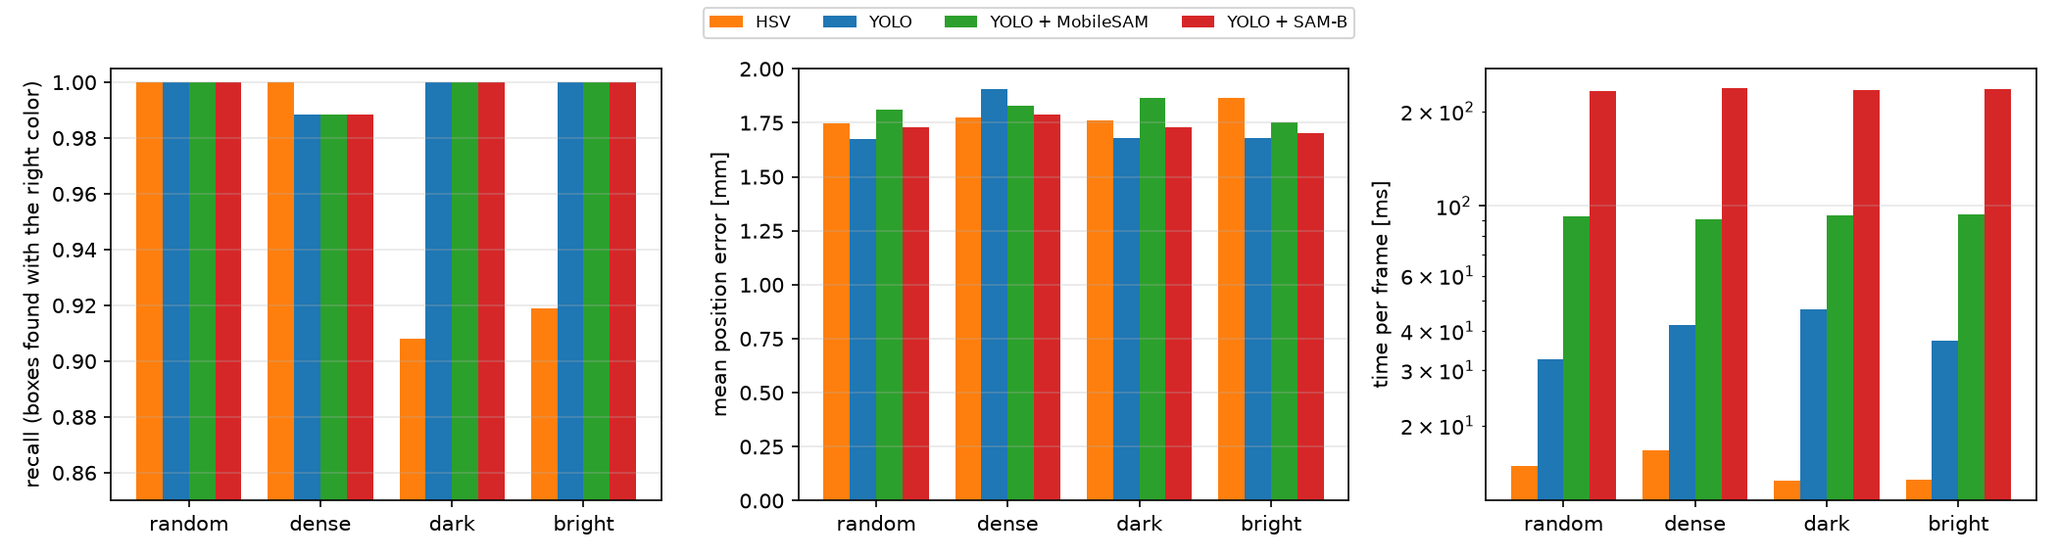
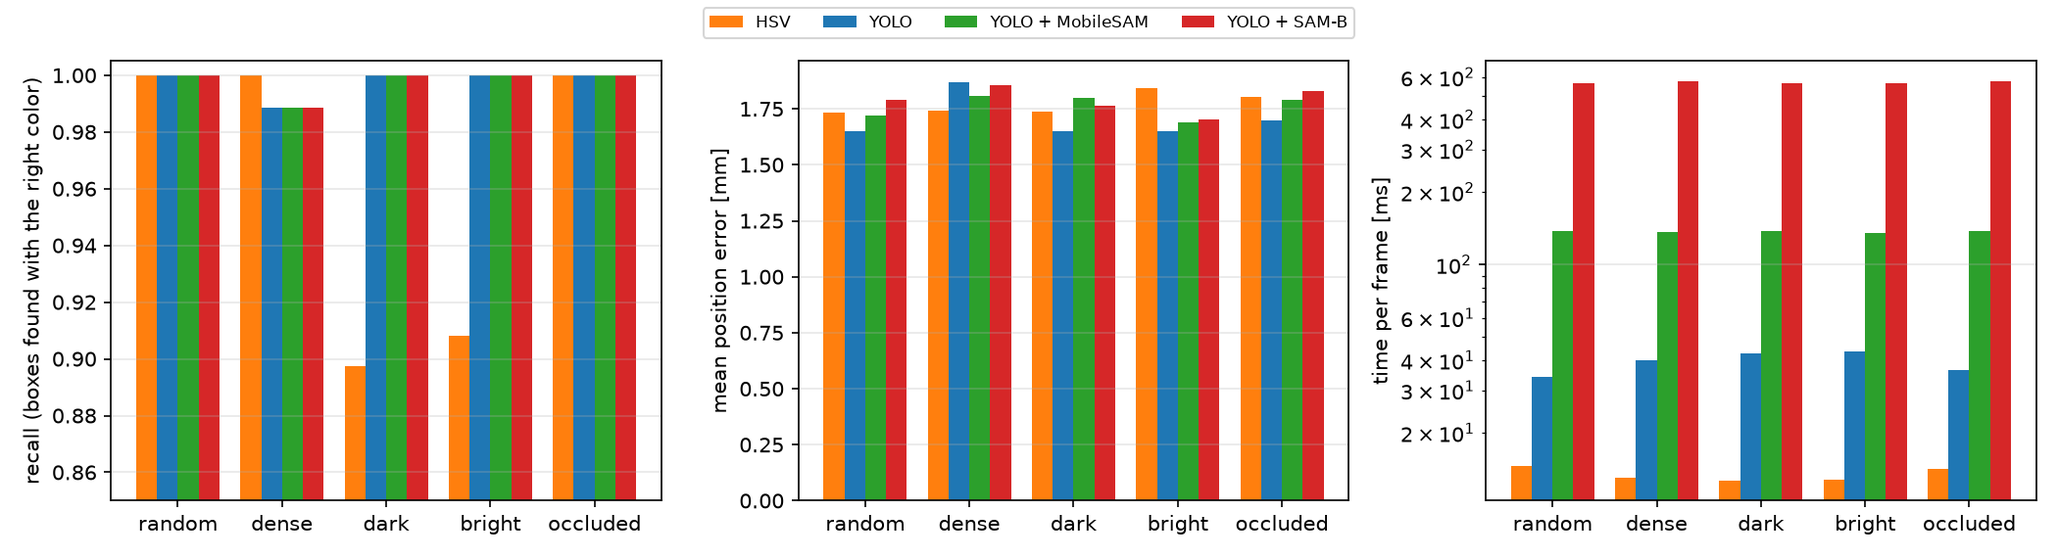
Perception benchmark with occlusion on the new layout (#110) (#161)

diff --git a/src/conveyor_sort/perception/benchmark.py b/src/conveyor_sort/perception/benchmark.py
@@ -4,14 +4,17 @@ from dataclasses import replace
 from typing import Callable
 
 import numpy as np
+import robotic as ry
 
 from conveyor_sort.interfaces import Detection
 from conveyor_sort.perception.camera import Camera, Observation
 from conveyor_sort.perception.dataset import randomize_scene
-from conveyor_sort.sim.conveyor import ConveyorConfig
+from conveyor_sort.sim.conveyor import BOX_SIZE, ConveyorConfig
+from conveyor_sort.sim.scene import ROBOT_PREFIX
 from conveyor_sort.sim.world import World
 
 MIN_VISIBLE_PIXELS = 600      # a box hidden by an arm beyond this (full box: about 900 px) need not be found
+PARTLY_HIDDEN = 300           # ... but between this and MIN_VISIBLE_PIXELS it counts for the partly-hidden recall
 MATCH_DISTANCE = 0.03         # a detection this close to a box centre is that box [m]
 TOUCH_GAP = 0.06              # centre distance of the touching boxes in the "dense" arrangement [m]: one box width
 
@@ -20,6 +23,7 @@ def make_scenes(n: int, seed: int, arrangement: str = "random", brightness: floa
     """`n` random belt scenes with the arms partly over the belt, each with its own world.
 
     "dense": every second box is moved next to its predecessor, touching it, along or across the belt.
+    "occluded": one arm's gripper hovers 5 to 15 cm above a random box, up to 5 cm beside its centre (#110).
     `brightness` scales the image (the renderer has no light control; this imitates darker / brighter lighting).
     """
     rng = np.random.default_rng(seed)
@@ -32,11 +36,35 @@ def make_scenes(n: int, seed: int, arrangement: str = "random", brightness: floa
             for first, second in zip(names[::2], names[1::2]):
                 offset = [TOUCH_GAP, 0, 0] if rng.random() < 0.5 else [0, TOUCH_GAP * np.sign(-world.C.getFrame(first).getRelativePosition()[1] or 1), 0]
                 world.C.getFrame(second).setRelativePosition(world.C.getFrame(first).getRelativePosition() + offset)
+        if arrangement == "occluded":
+            hover_over_a_box(world, rng)
         obs = Camera(world.C).capture()
         if brightness != 1.0:
             obs = replace(obs, rgb=np.clip(obs.rgb.astype(float) * brightness, 0, 255).astype(np.uint8))
         scenes.append((world, obs))
     return scenes
+
+
+def hover_over_a_box(world: World, rng: np.random.Generator) -> bool:
+    """Put the gripper of the robot nearer to a random box 5 to 15 cm above it (IK); False if there is no box or
+    neither robot reaches the point."""
+    boxes = world.conveyor.on_belt()
+    if not boxes:
+        return False
+    box = world.C.getFrame(boxes[rng.integers(len(boxes))]).getPosition()
+    angle = rng.uniform(0, 2 * np.pi)
+    point = box + [*(rng.uniform(0, 0.05) * np.array([np.cos(angle), np.sin(angle)])), BOX_SIZE / 2 + rng.uniform(0.05, 0.15)]
+    robots = sorted(ROBOT_PREFIX, key=lambda r: abs(world.C.getFrame(f"{ROBOT_PREFIX[r]}panda_base").getPosition()[1] - point[1]))
+    for robot in robots:
+        komo = ry.KOMO(world.C, 1, 1, 0, True)
+        komo.addObjective([], ry.FS.accumulatedCollisions, [], ry.OT.eq, [1e1])
+        komo.addObjective([], ry.FS.jointLimits, [], ry.OT.ineq)
+        komo.addObjective([], ry.FS.position, [f"{ROBOT_PREFIX[robot]}gripper"], ry.OT.eq, [1e1], point)
+        komo.addObjective([], ry.FS.vectorZ, [f"{ROBOT_PREFIX[robot]}gripper"], ry.OT.eq, [1e1], [0, 0, 1])
+        if ry.NLP_Solver(komo.nlp(), verbose=0).solve().feasible:
+            world.C.setJointState(komo.getPath()[-1])
+            return True
+    return False
 
 
 def evaluate(scenes: list[tuple[World, Observation]], detect: Callable[[Observation], list[Detection]],
@@ -46,9 +74,11 @@ def evaluate(scenes: list[tuple[World, Observation]], detect: Callable[[Observat
     recall: well-visible boxes found with the right color; wrong_color: found, but with another color;
     precision: detections that lie on a box of their color; error: distance of a found box from its true centre;
     mask_iou: best overlap of the detector's masks (`masks(obs)`, optional) with the true box mask;
+    partly_hidden_recall: boxes with PARTLY_HIDDEN to MIN_VISIBLE_PIXELS visible pixels (about a third to two thirds
+    of the box) found with the right color (#110);
     time: seconds per `detect` call (first call excluded: model warm-up).
     """
-    found = wrong_color = n_boxes = n_detections = on_a_box = 0
+    found = wrong_color = n_boxes = n_detections = on_a_box = hidden = hidden_found = 0
     errors, ious, seconds = [], [], []
     detect(scenes[0][1])
     for world, obs in scenes:
@@ -60,6 +90,10 @@ def evaluate(scenes: list[tuple[World, Observation]], detect: Callable[[Observat
         for name, (color, position) in boxes.items():
             truth = obs.frame_mask(world.C, name)
             if truth.sum() < MIN_VISIBLE_PIXELS:
+                if truth.sum() >= PARTLY_HIDDEN:
+                    hidden += 1
+                    hidden_found += any(d.color == color and np.linalg.norm(d.position - position) < MATCH_DISTANCE
+                                        for d in detections)
                 continue
             n_boxes += 1
             distances = [np.linalg.norm(d.position - position) for d in detections if d.color == color]
@@ -80,4 +114,5 @@ def evaluate(scenes: list[tuple[World, Observation]], detect: Callable[[Observat
         "error_max_mm": 1000 * float(np.max(errors)) if errors else np.nan,
         "mask_iou": float(np.mean(ious)) if ious else np.nan,
         "time_ms": 1000 * float(np.mean(seconds)),
+        "partly_hidden": hidden, "partly_hidden_recall": hidden_found / hidden if hidden else np.nan,
     }

diff --git a/evaluation/make_figures.py b/evaluation/make_figures.py
@@ -2,8 +2,8 @@
 
     python evaluation/make_figures.py            (needs matplotlib: pip install -e ".[eval]")
 
-Reads results/{manipulation,manipulation_physics,perception,prediction,prediction_physics,command,command_fast,
-command_physics,scenario_matrix,clearing}.csv, written by the benchmark scripts
+Reads results/{manipulation,manipulation_physics,perception,perception_scenarios,prediction,prediction_physics,
+command,command_fast,command_physics,scenario_matrix,clearing}.csv, written by the benchmark scripts
 in this directory, and writes evaluation/figures/*.png and evaluation/figures/tables.md. A missing CSV is skipped.
 """
 import argparse
@@ -156,6 +156,12 @@ if runs and physical:
           "streams per configuration, ground-truth detections)", header, [[name] + cells for name, cells in rows.items()])
 
 # ---------------------------------------------------------------- perception: HSV vs YOLO vs SAM
+def partly_hidden(row: dict) -> str:
+    """Boxes a third to two thirds visible (#110): found / counted; '-' for none or for an older CSV."""
+    n = int(float(row.get("partly_hidden") or 0))
+    return f"{round(float(row['partly_hidden_recall']) * n)} of {n}" if n else "-"
+
+
 rows_csv = read("perception.csv")
 if rows_csv:
     conditions = list(dict.fromkeys(r["condition"] for r in rows_csv))
@@ -180,12 +186,58 @@ if rows_csv:
     plt.close(figure)
     print(f"wrote {args.out / 'perception.png'}")
     table("Perception: detectors on the same scenes", ["condition", "detector", "boxes", "recall", "wrong color", "precision",
-                                                       "error mean / max [mm]", "mask IoU", "time [ms]"],
+                                                       "error mean / max [mm]", "mask IoU", "partly hidden: found",
+                                                       "time [ms]"],
           [[c if d == detectors[0] else "", d, cell[c, d]["boxes"], f"{float(cell[c, d]['recall']):.3f}",
             f"{float(cell[c, d]['wrong_color']):.3f}", f"{float(cell[c, d]['precision']):.3f}",
             f"{float(cell[c, d]['error_mean_mm']):.1f} / {float(cell[c, d]['error_max_mm']):.1f}",
-            "-" if cell[c, d]["mask_iou"] == "nan" else f"{float(cell[c, d]['mask_iou']):.3f}", f"{float(cell[c, d]['time_ms']):.0f}"]
+            "-" if cell[c, d]["mask_iou"] == "nan" else f"{float(cell[c, d]['mask_iou']):.3f}", partly_hidden(cell[c, d]),
+            f"{float(cell[c, d]['time_ms']):.0f}"]
            for c in conditions for d in detectors])
+
+# ---------------------------------------------------------------- perception: dense and occluded BotOp scenarios (#103, #110)
+rows_csv = read("perception_scenarios.csv")
+if rows_csv:
+    layout_rows = [r for r in rows_csv if r["case"] == "layout"]
+    if layout_rows:
+        groups = defaultdict(list)
+        for r in layout_rows:
+            groups[(r["layout"], r["spacing"], r["detector"])].append(r)
+        summary_rows = []
+        for (layout, spacing, detector), rs in groups.items():
+            boxes = sum(int(float(r["boxes"])) for r in rs)
+            recall = sum(float(r["recall"]) * float(r["boxes"]) for r in rs) / boxes if boxes else np.nan
+            wrong = sum(float(r["wrong_color"]) * float(r["boxes"]) for r in rs) / boxes if boxes else np.nan
+            errs = [float(r["error_mean_mm"]) for r in rs if r.get("error_mean_mm", "") not in ("", "nan")]
+            err_str = f"{np.mean(errs):.1f}" if errs else "-"
+            summary_rows.append([layout, spacing, detector, str(boxes), f"{recall:.1%}" if boxes else "-",
+                                 f"{wrong:.1%}" if boxes else "-", err_str])
+        table("Perception on BotOp images: dense and occluded layouts",
+              ["layout", "spacing", "detector", "boxes", "recall", "wrong color", "error mean [mm]"], summary_rows)
+
+    cover_rows = [r for r in rows_csv if r["case"] == "cover"]
+    if cover_rows:
+        covers = list(dict.fromkeys(r["cover"] for r in cover_rows))
+        detectors = list(dict.fromkeys(r["detector"] for r in cover_rows))
+        by_cover = {(r["cover"], r["detector"]): r for r in cover_rows}
+        cover_table = []
+        for cover in covers:
+            visible = next((by_cover[cover, d]["visible"] for d in detectors if (cover, d) in by_cover), "")
+            vis_str = f"{float(visible):.0%}" if visible not in ("", "nan") else "-"
+            cells = []
+            for d in detectors:
+                r = by_cover.get((cover, d))
+                if not r:
+                    cells.append("-")
+                elif r["found"] == "True":
+                    cells.append("found")
+                elif r["wrong_color"] == "True":
+                    cells.append("wrong color")
+                else:
+                    cells.append("-")
+            cover_table.append([cover, vis_str] + cells)
+        table("Perception on BotOp images: target partly covered by an arm",
+              ["cover (height / offset [m])", "visible"] + detectors, cover_table)
 
 # ---------------------------------------------------------------- prediction: constant-velocity fit vs Kalman
 rows_csv = read("prediction.csv")

diff --git a/tests/test_figures.py b/tests/test_figures.py
@@ -68,6 +68,25 @@ def test_scenario_matrix_table(tmp_path):
     assert "| front_side | near edge | failed **(unexpected)** | - | cleared |" in tables
 
 
+def test_perception_scenarios_tables(tmp_path):
+    pytest.importorskip("matplotlib")
+    results, out = tmp_path / "results", tmp_path / "figures"
+    results.mkdir()
+    (results / "perception_scenarios.csv").write_text(
+        "case,layout,lateral,spacing,cover,detector,boxes,recall,wrong_color,precision,error_mean_mm,error_max_mm,mask_iou,time_ms,visible,found\n"
+        "layout,free,centre,touching,,hsv,3,1.0,0.0,1.0,1.5,2.0,nan,14.0,,\n"
+        "layout,free,near_edge,touching,,hsv,3,0.6667,0.0,1.0,2.5,3.0,nan,14.0,,\n"
+        "cover,free,,,0.15/0.03,hsv,,,,,2.0,,,,0.41,True\n"
+        "cover,free,,,0.15/0.03,yolo,,,,,,,,,0.41,False\n"
+    )
+    run("make_figures.py", "--results", results, "--out", out)
+    tables = (out / "tables.md").read_text()
+    assert "Perception on BotOp images: dense and occluded layouts" in tables
+    assert "| free | touching | hsv | 6 | 83.3% | 0.0% | 2.0 |" in tables
+    assert "Perception on BotOp images: target partly covered by an arm" in tables
+    assert "| 0.15/0.03 | 41% | found | - |" in tables
+
+
 def test_clearing_table(tmp_path):
     pytest.importorskip("matplotlib")
     results, out = tmp_path / "results", tmp_path / "figures"

diff --git a/evaluation/benchmark_perception.py b/evaluation/benchmark_perception.py
@@ -21,7 +21,8 @@ parser.add_argument("--out", type=Path, default=Path("results/perception.csv"))
 args = parser.parse_args()
 
 CONDITIONS = {"random": ("random", 1.0), "dense (touching boxes)": ("dense", 1.0),
-              "dark (x 0.6)": ("random", 0.6), "bright (x 1.4)": ("random", 1.4)}
+              "dark (x 0.6)": ("random", 0.6), "bright (x 1.4)": ("random", 1.4),
+              "occluded (an arm over a box)": ("occluded", 1.0)}
 rows = []
 detectors = None
 for condition, (arrangement, brightness) in CONDITIONS.items():
@@ -41,7 +42,8 @@ for condition, (arrangement, brightness) in CONDITIONS.items():
         rows.append(row)
         print(f"{condition:24s} {name:17s} boxes {row['boxes']:3d}  recall {row['recall']:.3f}  wrong color {row['wrong_color']:.3f}  "
               f"precision {row['precision']:.3f}  error {row['error_mean_mm']:.1f} / {row['error_max_mm']:.1f} mm  "
-              f"mask IoU {row['mask_iou']:.3f}  {row['time_ms']:.0f} ms", flush=True)
+              f"mask IoU {row['mask_iou']:.3f}  partly hidden {row['partly_hidden']} found {row['partly_hidden_recall']:.2f}  "
+              f"{row['time_ms']:.0f} ms", flush=True)
 
 args.out.parent.mkdir(parents=True, exist_ok=True)
 with args.out.open("w", newline="") as f:

diff --git a/tests/test_perception_benchmark.py b/tests/test_perception_benchmark.py
@@ -45,3 +45,21 @@ def test_dense_arrangement_has_touching_boxes_and_brightness_scales_the_image():
     (_, dark), = make_scenes(1, seed=3, brightness=0.5)
     (_, normal), = make_scenes(1, seed=3)
     assert dark.rgb.mean() == pytest.approx(normal.rgb.mean() / 2, rel=0.02)
+
+
+def test_occluded_scenes_put_a_gripper_over_a_box():
+    """#110: in every scene one gripper hovers 5 to 15 cm above a box (about 6 to 16 cm above its top face)."""
+    scenes = make_scenes(4, seed=1000, arrangement="occluded")
+    for world, obs in scenes:
+        boxes = [world.C.getFrame(n).getPosition() for n in world.conveyor.on_belt()]
+        if not boxes:
+            continue
+        grippers = [world.C.getFrame(g).getPosition() for g in ("l_gripper", "r_gripper")]
+        assert min(np.linalg.norm(g[:2] - b[:2]) for g in grippers for b in boxes) < 0.06
+        assert any(0.05 < g[2] - b[2] < 0.2 for g in grippers for b in boxes)
+
+
+def test_partly_hidden_boxes_are_counted_separately():
+    scenes = make_scenes(10, seed=1000, arrangement="occluded")
+    metrics = evaluate(scenes, lambda obs: [])                # finds nothing
+    assert metrics["partly_hidden"] >= 1 and metrics["partly_hidden_recall"] == 0.0 and metrics["recall"] == 0.0

diff --git a/evaluation/figures/tables.md b/evaluation/figures/tables.md
@@ -58,24 +58,110 @@ Generated by `evaluation/make_figures.py` from the CSV files in `results/`. Do n
 
 ## Perception: detectors on the same scenes
 
-| condition | detector | boxes | recall | wrong color | precision | error mean / max [mm] | mask IoU | time [ms] |
-|---|---|---|---|---|---|---|---|---|
-| random | HSV | 185 | 1.000 | 0.000 | 1.000 | 1.7 / 5.4 | 0.979 | 15 |
-|  | YOLO | 185 | 1.000 | 0.000 | 1.000 | 1.7 / 5.4 | - | 32 |
-|  | YOLO + MobileSAM | 185 | 1.000 | 0.000 | 1.000 | 1.8 / 5.8 | 0.975 | 93 |
-|  | YOLO + SAM-B | 185 | 1.000 | 0.000 | 1.000 | 1.7 / 5.6 | 0.982 | 232 |
-| dense (touching boxes) | HSV | 173 | 1.000 | 0.000 | 1.000 | 1.8 / 8.2 | 0.983 | 17 |
-|  | YOLO | 173 | 0.988 | 0.000 | 1.000 | 1.9 / 9.4 | - | 42 |
-|  | YOLO + MobileSAM | 173 | 0.988 | 0.000 | 1.000 | 1.8 / 8.9 | 0.957 | 91 |
-|  | YOLO + SAM-B | 173 | 0.988 | 0.000 | 1.000 | 1.8 / 9.1 | 0.961 | 237 |
-| dark (x 0.6) | HSV | 185 | 0.908 | 0.000 | 1.000 | 1.8 / 5.4 | 0.899 | 13 |
-|  | YOLO | 185 | 1.000 | 0.000 | 1.000 | 1.7 / 5.4 | - | 47 |
-|  | YOLO + MobileSAM | 185 | 1.000 | 0.000 | 1.000 | 1.9 / 5.7 | 0.975 | 93 |
-|  | YOLO + SAM-B | 185 | 1.000 | 0.000 | 1.000 | 1.7 / 5.6 | 0.981 | 234 |
-| bright (x 1.4) | HSV | 185 | 0.919 | 0.000 | 1.000 | 1.9 / 11.6 | 0.908 | 13 |
-|  | YOLO | 185 | 1.000 | 0.000 | 1.000 | 1.7 / 5.4 | - | 37 |
-|  | YOLO + MobileSAM | 185 | 1.000 | 0.000 | 1.000 | 1.8 / 5.7 | 0.972 | 94 |
-|  | YOLO + SAM-B | 185 | 1.000 | 0.000 | 1.000 | 1.7 / 5.6 | 0.983 | 235 |
+| condition | detector | boxes | recall | wrong color | precision | error mean / max [mm] | mask IoU | partly hidden: found | time [ms] |
+|---|---|---|---|---|---|---|---|---|---|
+| random | HSV | 185 | 1.000 | 0.000 | 1.000 | 1.7 / 3.4 | 0.976 | 2 of 2 | 15 |
+|  | YOLO | 185 | 1.000 | 0.000 | 1.000 | 1.6 / 3.4 | - | 2 of 2 | 34 |
+|  | YOLO + MobileSAM | 185 | 1.000 | 0.000 | 1.000 | 1.7 / 3.7 | 0.985 | 2 of 2 | 138 |
+|  | YOLO + SAM-B | 185 | 1.000 | 0.000 | 1.000 | 1.8 / 3.8 | 0.979 | 2 of 2 | 565 |
+| dense (touching boxes) | HSV | 173 | 1.000 | 0.000 | 1.000 | 1.7 / 4.7 | 0.983 | - | 13 |
+|  | YOLO | 173 | 0.988 | 0.000 | 1.000 | 1.9 / 6.0 | - | - | 40 |
+|  | YOLO + MobileSAM | 173 | 0.988 | 0.000 | 1.000 | 1.8 / 5.5 | 0.958 | - | 137 |
+|  | YOLO + SAM-B | 173 | 0.988 | 0.000 | 1.000 | 1.9 / 4.4 | 0.958 | - | 575 |
+| dark (x 0.6) | HSV | 185 | 0.897 | 0.000 | 1.000 | 1.7 / 3.4 | 0.889 | 2 of 2 | 13 |
+|  | YOLO | 185 | 1.000 | 0.000 | 1.000 | 1.6 / 3.4 | - | 2 of 2 | 43 |
+|  | YOLO + MobileSAM | 185 | 1.000 | 0.000 | 1.000 | 1.8 / 3.8 | 0.981 | 2 of 2 | 137 |
+|  | YOLO + SAM-B | 185 | 1.000 | 0.000 | 1.000 | 1.8 / 3.8 | 0.979 | 2 of 2 | 565 |
+| bright (x 1.4) | HSV | 185 | 0.908 | 0.000 | 1.000 | 1.8 / 11.6 | 0.898 | 2 of 2 | 13 |
+|  | YOLO | 185 | 1.000 | 0.000 | 1.000 | 1.6 / 3.4 | - | 2 of 2 | 44 |
+|  | YOLO + MobileSAM | 185 | 1.000 | 0.000 | 1.000 | 1.7 / 3.7 | 0.984 | 2 of 2 | 136 |
+|  | YOLO + SAM-B | 185 | 1.000 | 0.000 | 1.000 | 1.7 / 3.7 | 0.984 | 2 of 2 | 567 |
+| occluded (an arm over a box) | HSV | 166 | 1.000 | 0.000 | 1.000 | 1.8 / 6.0 | 0.981 | 3 of 3 | 14 |
+|  | YOLO | 166 | 1.000 | 0.000 | 1.000 | 1.7 / 6.0 | - | 2 of 3 | 36 |
+|  | YOLO + MobileSAM | 166 | 1.000 | 0.000 | 1.000 | 1.8 / 6.1 | 0.985 | 2 of 3 | 137 |
+|  | YOLO + SAM-B | 166 | 1.000 | 0.000 | 1.000 | 1.8 / 6.2 | 0.981 | 2 of 3 | 578 |
+
+## Perception on BotOp images: dense and occluded layouts
+
+| layout | spacing | detector | boxes | recall | wrong color | error mean [mm] |
+|---|---|---|---|---|---|---|
+| free | touching | hsv | 3 | 100.0% | 0.0% | 1.3 |
+| free | touching | yolo | 3 | 100.0% | 0.0% | 1.3 |
+| free | touching | sam | 3 | 100.0% | 0.0% | 1.4 |
+| front | touching | hsv | 6 | 100.0% | 0.0% | 2.0 |
+| front | touching | yolo | 6 | 100.0% | 0.0% | 2.2 |
+| front | touching | sam | 6 | 100.0% | 0.0% | 1.9 |
+| front | gap_3cm | hsv | 6 | 100.0% | 0.0% | 1.9 |
+| front | gap_3cm | yolo | 6 | 100.0% | 0.0% | 1.6 |
+| front | gap_3cm | sam | 6 | 100.0% | 0.0% | 1.9 |
+| front | centre_11cm | hsv | 6 | 100.0% | 0.0% | 2.0 |
+| front | centre_11cm | yolo | 6 | 100.0% | 0.0% | 1.3 |
+| front | centre_11cm | sam | 6 | 100.0% | 0.0% | 1.5 |
+| front | centre_30cm | hsv | 6 | 100.0% | 0.0% | 1.9 |
+| front | centre_30cm | yolo | 6 | 100.0% | 0.0% | 1.4 |
+| front | centre_30cm | sam | 6 | 100.0% | 0.0% | 1.6 |
+| back | touching | hsv | 6 | 100.0% | 0.0% | 1.9 |
+| back | touching | yolo | 6 | 100.0% | 0.0% | 1.4 |
+| back | touching | sam | 6 | 100.0% | 0.0% | 1.5 |
+| back | gap_3cm | hsv | 6 | 100.0% | 0.0% | 1.9 |
+| back | gap_3cm | yolo | 6 | 100.0% | 0.0% | 1.3 |
+| back | gap_3cm | sam | 6 | 100.0% | 0.0% | 1.6 |
+| back | centre_11cm | hsv | 6 | 100.0% | 0.0% | 2.0 |
+| back | centre_11cm | yolo | 6 | 100.0% | 0.0% | 1.4 |
+| back | centre_11cm | sam | 6 | 100.0% | 0.0% | 1.5 |
+| back | centre_30cm | hsv | 6 | 100.0% | 0.0% | 1.9 |
+| back | centre_30cm | yolo | 6 | 100.0% | 0.0% | 1.4 |
+| back | centre_30cm | sam | 6 | 100.0% | 0.0% | 1.6 |
+| front_back | touching | hsv | 9 | 100.0% | 0.0% | 2.1 |
+| front_back | touching | yolo | 9 | 100.0% | 0.0% | 2.0 |
+| front_back | touching | sam | 9 | 100.0% | 0.0% | 1.8 |
+| front_back | gap_3cm | hsv | 9 | 100.0% | 0.0% | 2.1 |
+| front_back | gap_3cm | yolo | 9 | 100.0% | 0.0% | 1.4 |
+| front_back | gap_3cm | sam | 9 | 100.0% | 0.0% | 1.8 |
+| front_back | centre_11cm | hsv | 9 | 100.0% | 0.0% | 2.3 |
+| front_back | centre_11cm | yolo | 9 | 100.0% | 0.0% | 1.4 |
+| front_back | centre_11cm | sam | 9 | 100.0% | 0.0% | 1.6 |
+| front_back | centre_30cm | hsv | 9 | 100.0% | 0.0% | 2.1 |
+| front_back | centre_30cm | yolo | 9 | 100.0% | 0.0% | 1.4 |
+| front_back | centre_30cm | sam | 9 | 100.0% | 0.0% | 1.7 |
+| left_right | touching | hsv | 3 | 100.0% | 0.0% | 2.2 |
+| left_right | touching | yolo | 3 | 66.7% | 0.0% | 2.1 |
+| left_right | touching | sam | 3 | 66.7% | 0.0% | 2.2 |
+| left_right | gap_3cm | hsv | 3 | 100.0% | 0.0% | 2.2 |
+| left_right | gap_3cm | yolo | 3 | 100.0% | 0.0% | 1.5 |
+| left_right | gap_3cm | sam | 3 | 100.0% | 0.0% | 1.6 |
+| left_right | centre_11cm | hsv | 3 | 100.0% | 0.0% | 2.7 |
+| left_right | centre_11cm | yolo | 3 | 100.0% | 0.0% | 1.7 |
+| left_right | centre_11cm | sam | 3 | 100.0% | 0.0% | 1.6 |
+| surrounded | touching | hsv | 5 | 100.0% | 0.0% | 2.6 |
+| surrounded | touching | yolo | 5 | 80.0% | 0.0% | 1.5 |
+| surrounded | touching | sam | 5 | 80.0% | 0.0% | 1.9 |
+| surrounded | gap_3cm | hsv | 5 | 100.0% | 0.0% | 2.5 |
+| surrounded | gap_3cm | yolo | 5 | 100.0% | 0.0% | 1.4 |
+| surrounded | gap_3cm | sam | 5 | 100.0% | 0.0% | 1.7 |
+| surrounded | centre_11cm | hsv | 5 | 100.0% | 0.0% | 3.0 |
+| surrounded | centre_11cm | yolo | 5 | 100.0% | 0.0% | 1.6 |
+| surrounded | centre_11cm | sam | 5 | 100.0% | 0.0% | 1.8 |
+| cluster_3x3 | touching | hsv | 9 | 100.0% | 0.0% | 2.4 |
+| cluster_3x3 | touching | yolo | 9 | 33.3% | 0.0% | 1.3 |
+| cluster_3x3 | touching | sam | 9 | 33.3% | 0.0% | 1.8 |
+| cluster_3x3 | gap_3cm | hsv | 9 | 100.0% | 0.0% | 2.2 |
+| cluster_3x3 | gap_3cm | yolo | 9 | 100.0% | 0.0% | 1.5 |
+| cluster_3x3 | gap_3cm | sam | 9 | 100.0% | 0.0% | 1.8 |
+| cluster_3x3 | centre_11cm | hsv | 9 | 100.0% | 0.0% | 3.1 |
+| cluster_3x3 | centre_11cm | yolo | 9 | 100.0% | 0.0% | 1.5 |
+| cluster_3x3 | centre_11cm | sam | 9 | 100.0% | 0.0% | 1.6 |
+
+## Perception on BotOp images: target partly covered by an arm
+
+| cover (height / offset [m]) | visible | hsv | yolo | sam |
+|---|---|---|---|---|
+| 0.05/0.00 | 6% | - | - | - |
+| 0.05/0.03 | 0% | - | - | - |
+| 0.05/0.05 | 0% | - | - | - |
+| 0.15/0.00 | 13% | - | - | - |
+| 0.15/0.03 | 0% | - | - | - |
+| 0.15/0.05 | 0% | - | - | - |
 
 ## Prediction: mean position error [mm] 3 s ahead, fit / Kalman
 

diff --git a/CLAUDE.md b/CLAUDE.md
@@ -45,7 +45,7 @@ Headless Linux needs `libglu1-mesa`, `liblapack3`, `xvfb`; every command that re
 | `perception/yolo.py` | `YoloDetector(belt, weights).detect(obs)` / `.boxes(obs)`: fine-tuned YOLO11n (`weights/yolo_boxes.pt`, not in git); `localize(mask, obs, belt)`: position from the mask pixels at box-top height; `boxes_to_detections`. `scripts/train_yolo.py` trains it |
 | `perception/sam.py` | `SamDetector(belt, model="mobile_sam" or "sam_b").detect(obs)` / `.masks(obs)`: YOLO boxes as SAM prompts, masks localized with `localize`; SAM weights are downloaded by Ultralytics into `weights/` |
 | `perception/detectors.py` | `get_detector(name, world, camera=None)` returns `detect()` for `gt`, `hsv`, `yolo`, `sam` (MobileSAM), `sam_b`; used by the scripts (`--detector`) and `metrics.run_experiment` |
-| `perception/benchmark.py` | `make_scenes(n, seed, arrangement, brightness)`, `evaluate(scenes, detect, masks)`: recall, wrong color, precision, position error, mask IoU, time; `evaluation/benchmark_perception.py` compares HSV / YOLO / SAM and writes `results/perception.csv` |
+| `perception/benchmark.py` | `make_scenes(n, seed, arrangement, brightness)` (arrangement `random`, `dense`, `occluded`: one gripper 5 to 15 cm above a box, #110), `evaluate(scenes, detect, masks)`: recall, wrong color, precision, position error, mask IoU, time, partly-hidden recall (boxes 300 to 600 px visible); `evaluation/benchmark_perception.py` compares HSV / YOLO / SAM and writes `results/perception.csv` |
 | `perception/dataset.py` | Synthetic YOLO dataset, labels from GT segmentation |
 | `prediction/tracker.py` | `Tracker(predictor="cv" or "kalman").update(detections, time)`: association + constant-velocity window fit or Kalman filter |
 | `prediction/benchmark.py` | `prediction_errors(predictor, noise, horizons, frames)`: future-position errors on a synthetic box; `evaluation/benchmark_prediction.py` writes `results/prediction.csv`. Physical belt: `record_run(world, detect, duration)` records `Frame`s (detections + true box centres per step), `recorded_errors(frames, predictor, horizons)` evaluates a predictor on them; `evaluation/benchmark_prediction_physics.py` (gt, hsv) writes `results/prediction_physics.csv` |
@@ -100,6 +100,7 @@ Headless Linux needs `libglu1-mesa`, `liblapack3`, `xvfb`; every command that re
 - YOLO: a bounding box can contain part of an arm above the box; `boxes_to_detections` localizes from the pixels at box-top height only. The model test is skipped when the weights file is missing (CI). Python 3.14 starts data-loader workers by re-importing the script: training code needs `if __name__ == "__main__"`.
 - Dense and occluded boxes (#103, `evaluation/benchmark_perception_scenarios.py`, BotOp images, the 48 layouts of #98): YOLO and YOLO + MobileSAM find every box except in a touching 3 x 3 cluster (33 %: they merge touching boxes); HSV finds all 9 there, but misses 17 to 22 % of the boxes touching the target in front or behind; no wrong colors; error 1.2 to 3.1 mm. Target under Robot 1's hand: YOLO / SAM still find it with 24 % visible, HSV from about 41 %. `Tracker.max_age` is 3 s (was 2): a box hidden under the hand for 2.4 s kept its track (BotOp images come every 0.5 s).
 - HSV detector: gray blobs on the robot arms are rejected by a height check from depth. Its thresholds are fixed: with the image 40 % darker or brighter it misses 8 to 9 % of the boxes (YOLO: none). Touching boxes were separated in the benchmark (the rounded box edges render darker), contrary to an earlier note here.
+- Perception on the #154 layout (#110): the same recall, precision and error as before (+-1 point, +-0.1 mm); Robot 2 in the image gives no false detections, YOLO needs no retraining. With a gripper over a box every well-visible box is still found; of the partly hidden ones (a third to two thirds visible) HSV found 3 of 3, YOLO and SAM 2 of 3. A box right under Robot 1's hand (BotOp scenarios) is hidden almost completely by the wrist (0 to 13 % visible, before #154 12 to 43 %): no detector finds it, the tracker bridges the gap (`max_age` 3 s).
 - `World.step()` spawns a box on the very first step even with a huge `spacing`.
 - Belt: along +x, x in [-1.1, 1.1], centre y = 0.2, surface z = 0.62. Boxes: 6 cm cubes, kinematic motion (no physics).
 - Reach on the belt centre line: both robots x in [-0.6, 0.6] (on a robot's own half of the belt 0.1 m more, on the far half 0.1 m less). Regions A, B, C: Robot 1 only; bin_gray: Robot 2 only. Robot 1's place works for region centres x in [-0.65, -0.45] (closer to its base the arm folds into itself). Images are rendered without shadows (`Render/renderShadow`): RAI's light comes from the far side, and Robot 2's arm shadowed the downstream belt (HSV missed gray boxes in it).
